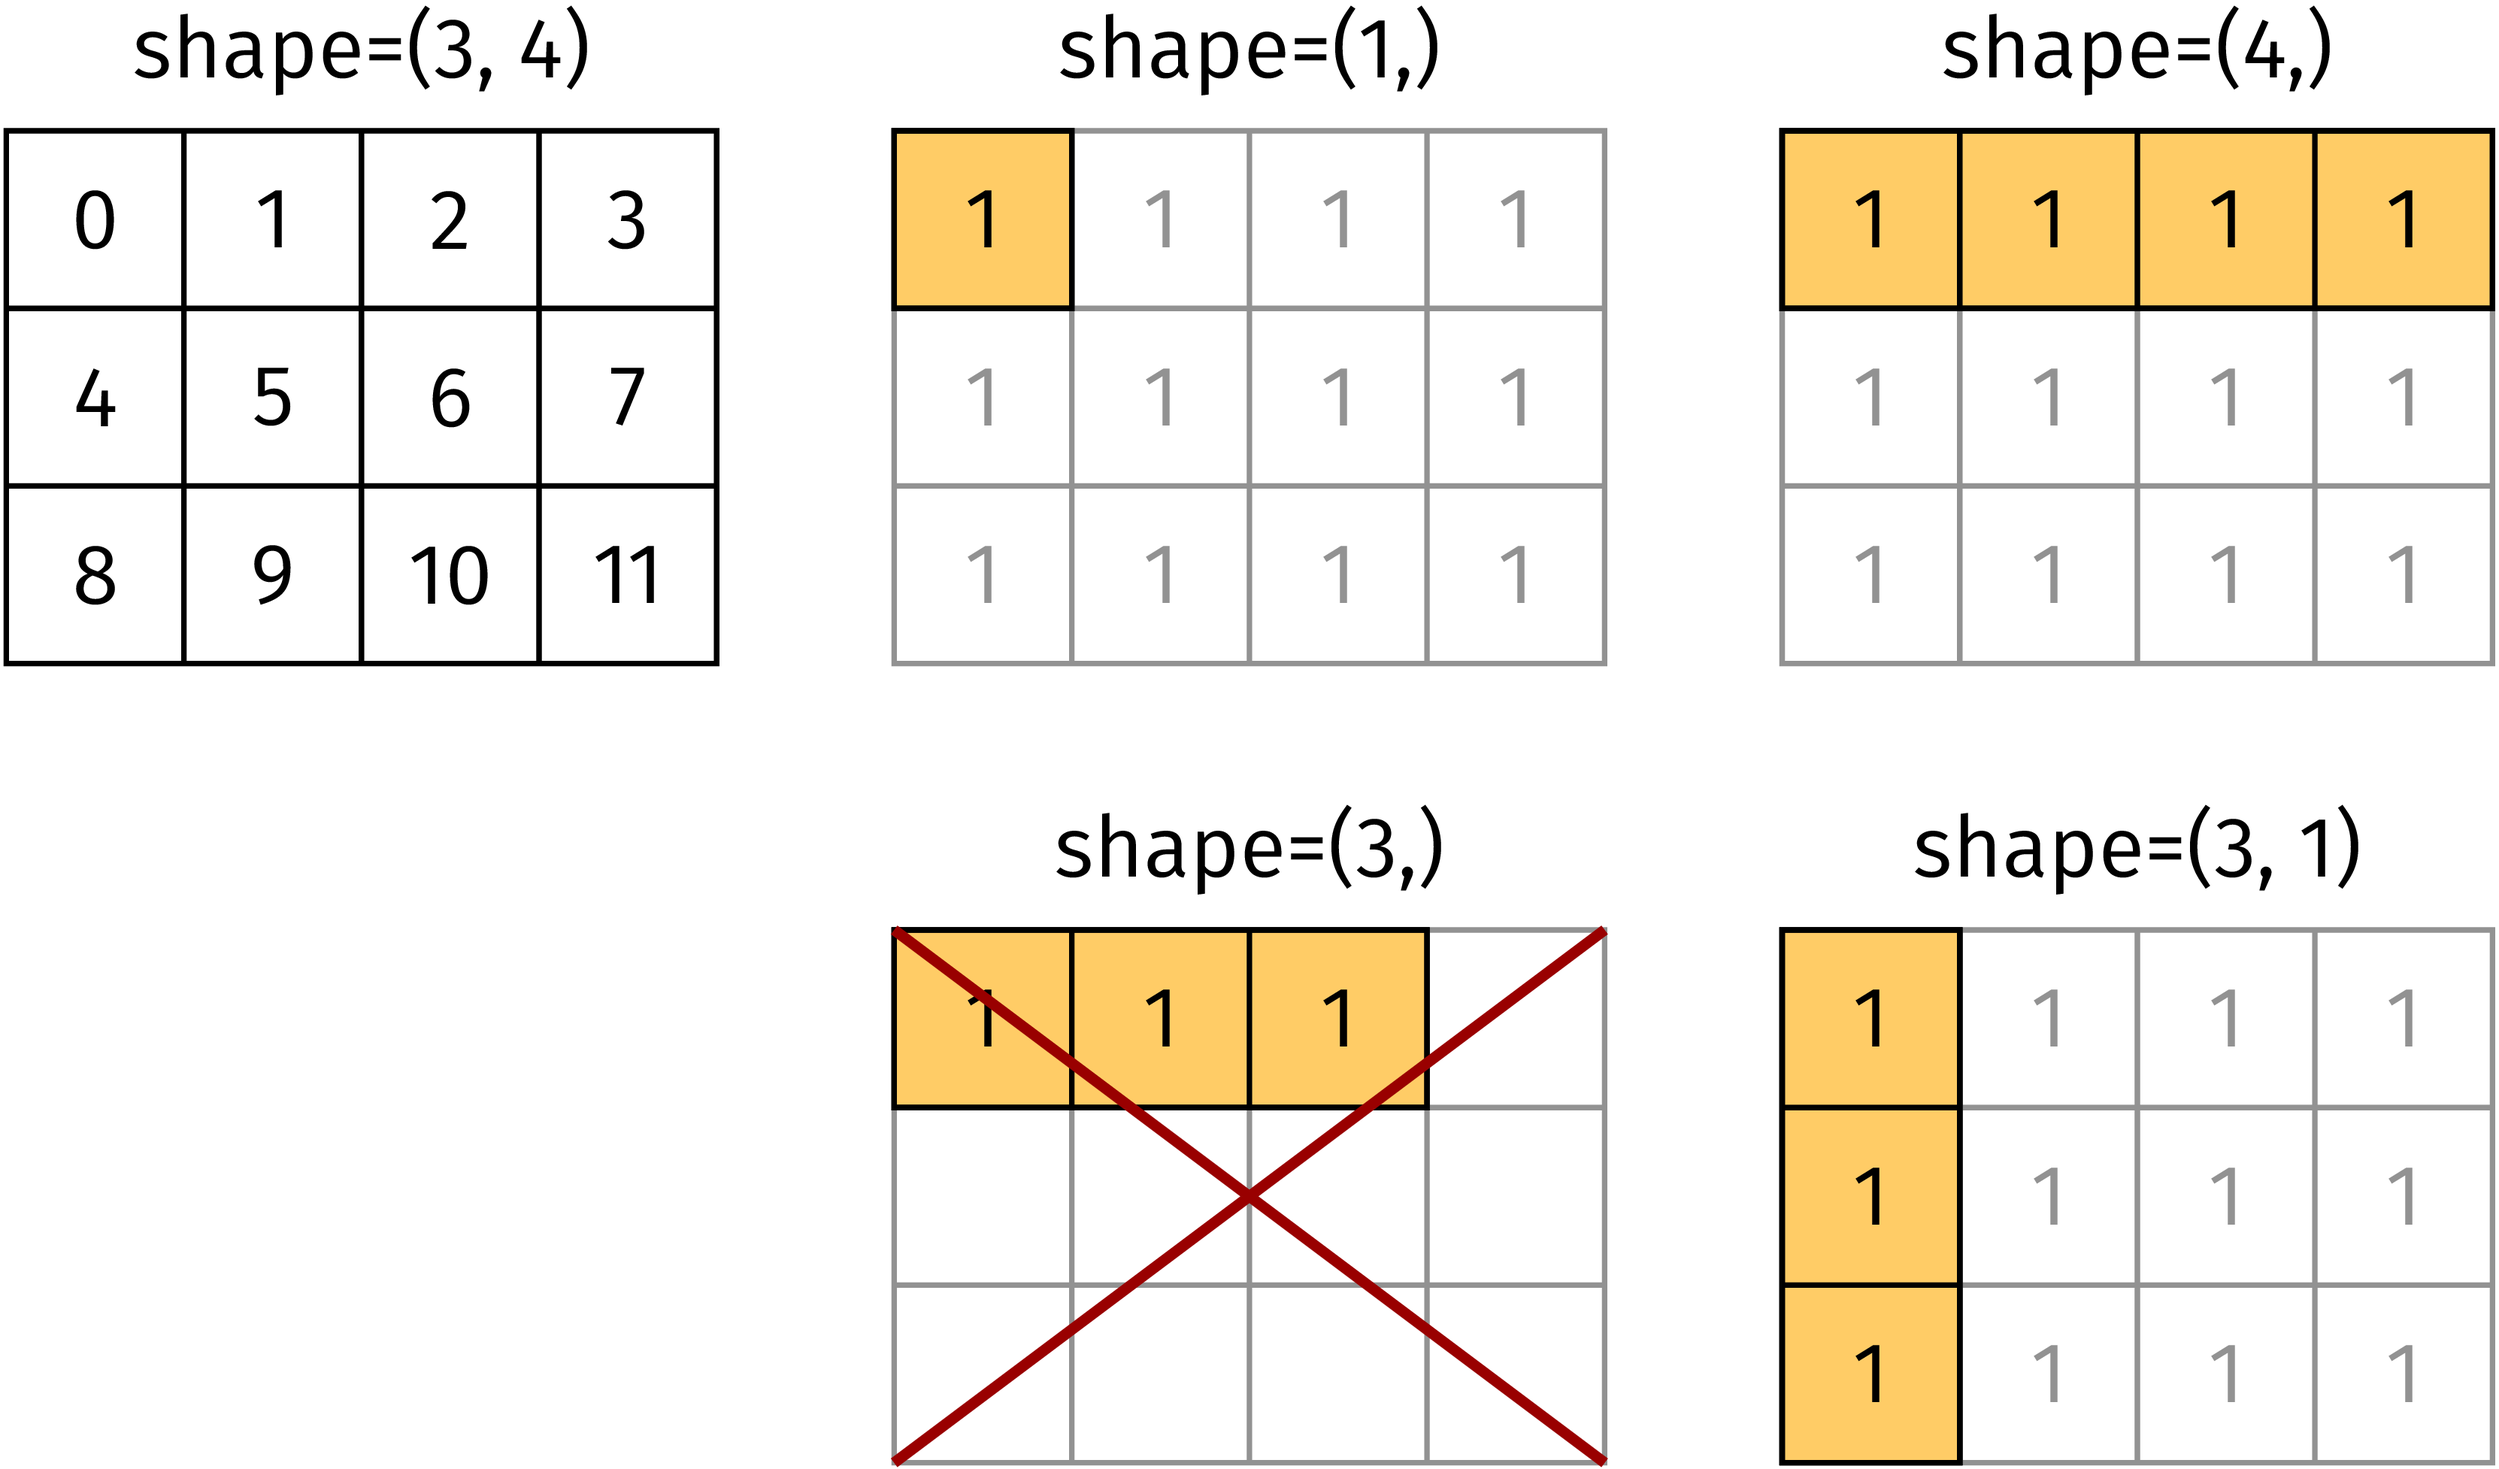
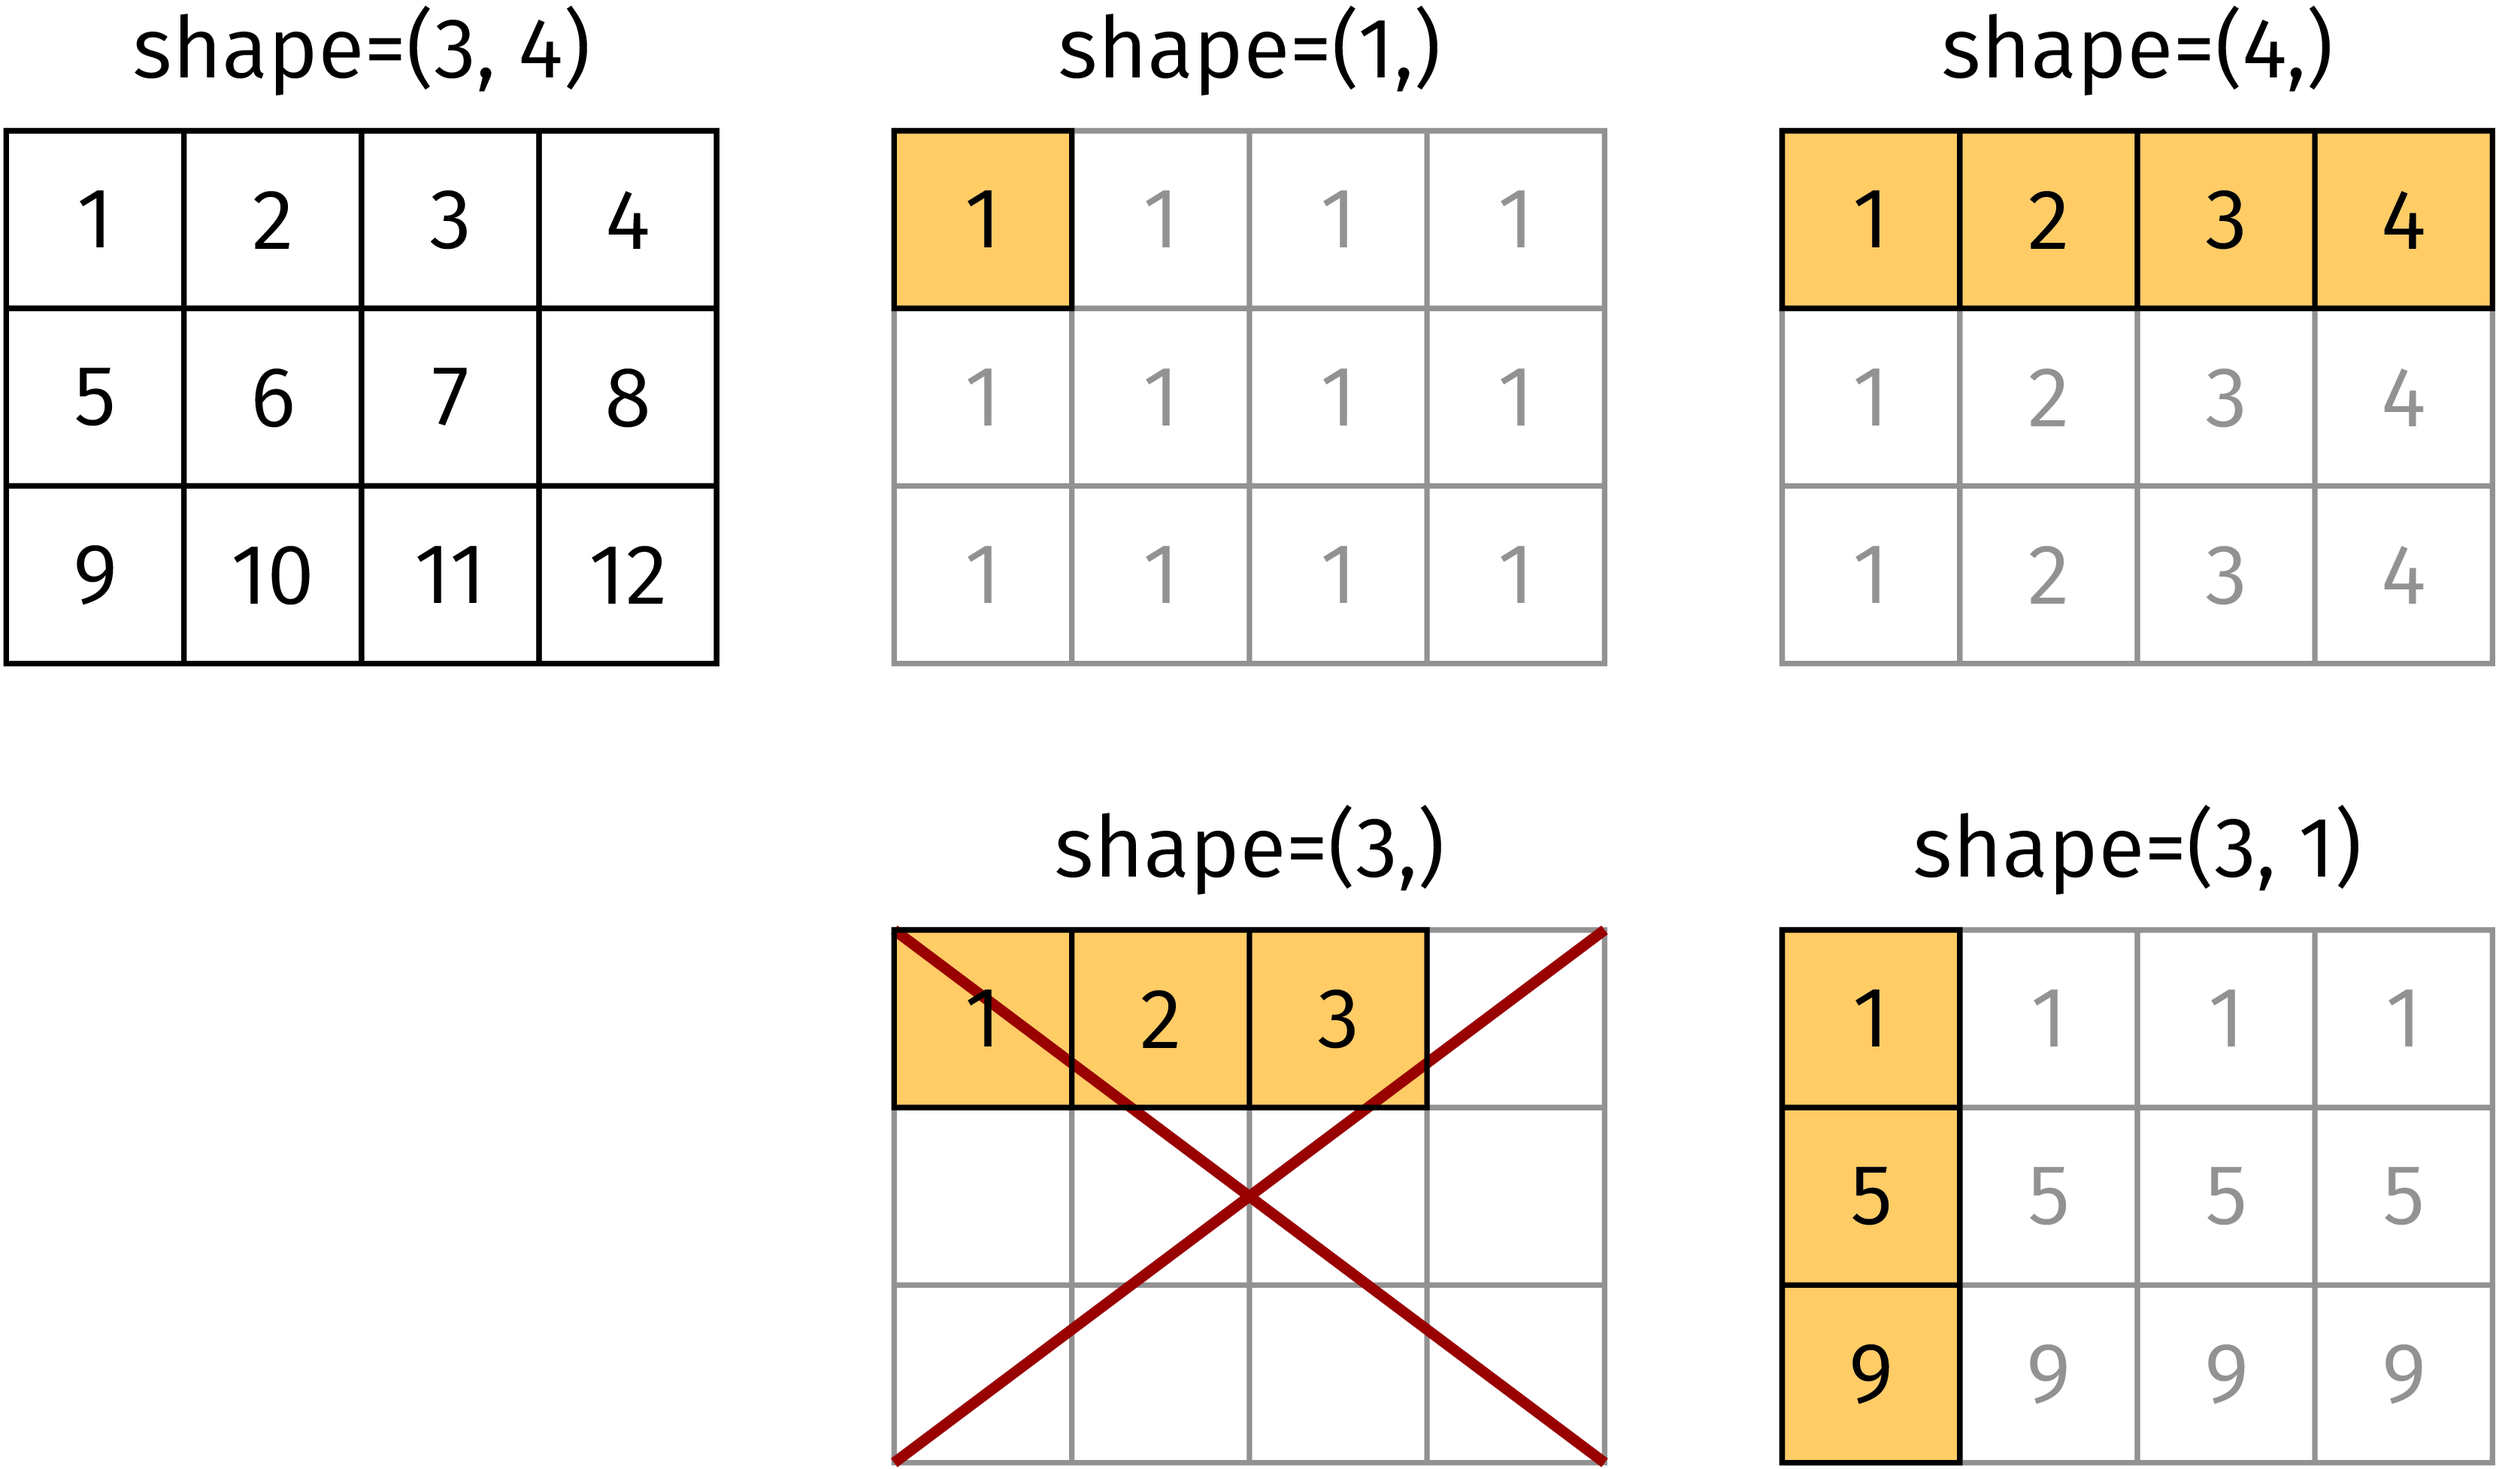
values of matrix elements in figure improved

diff --git a/manuscript/imgsrc/broadcast.py b/manuscript/imgsrc/broadcast.py
@@ -1,66 +1,62 @@
 from pyx import canvas, color, deco, path, text, style, trafo, unit
 
-def drawgrid(c, nxcells, nycells, yoff, gridcolor=color.grey(0), arange=None):
-    c.stroke(path.rect(0, yoff, nxcells, nycells), [gridcolor])
-    for nx in range(nxcells-1):
-        c.stroke(path.line(nx+1, yoff, nx+1, yoff+nycells), [gridcolor])
-    for ny in range(nycells-1):
-        c.stroke(path.line(0, yoff+ny+1, nxcells, yoff+ny+1), [gridcolor])
-    entry = '1'
-    if arange is not None:
-        for nx in range(nxcells):
-            for ny in range(nycells):
-                if arange:
-                    entry = str(4*ny+nx)
-                c.text(nx+0.5, 2.5-ny, entry,
-                       [text.halign.center, text.valign.middle, gridcolor])
-
-def array34(arange, hlshape=None):
+def array(shape):
+    baseshape = (3, 4)
+    bgcolor = color.grey(0.5)
     c = canvas.canvas()
-    if hlshape is None:
-        c.text(2, 3.3, 'shape=(3, 4)', [text.halign.center])
+    c.text(baseshape[1]/2, baseshape[0]+0.3, 'shape=%s' % repr(shape),
+           [text.halign.center])
+    if len(shape) == 1:
+        shape = (1, shape[0])
+    assert len(shape) == 2
+    c.stroke(path.rect(0, 0, baseshape[1], baseshape[0]), [bgcolor])
+    for nx in range(1, baseshape[1]):
+        c.stroke(path.line(nx, 0, nx, baseshape[0]), [bgcolor])
+    for ny in range(1, baseshape[0]):
+        c.stroke(path.line(0, ny, baseshape[1], ny), [bgcolor])
+    if not(shape == baseshape):
+        c.fill(path.rect(0, baseshape[0], shape[1], -shape[0]),
+               [color.rgb(1, 0.8, 0.4)])
+        if shape[0] in (1, baseshape[0]) and shape[1] in (1, baseshape[1]):
+            for nx in range(baseshape[1]):
+                for ny in range(baseshape[0]):
+                    c.text(nx+0.5, baseshape[0]-ny-0.5,
+                           str(baseshape[1]*min(ny, shape[0]-1)+min(nx, shape[1]-1)+1),
+                           [text.halign.center, text.valign.middle, bgcolor])
+        else:
+            alertcolor = color.rgb(0.6, 0, 0)
+            c.stroke(path.line(0, 0, baseshape[1], baseshape[0]),
+                     [alertcolor, style.linewidth.Thick])
+            c.stroke(path.line(0, baseshape[0], baseshape[1], 0),
+                     [alertcolor, style.linewidth.Thick])
     else:
-        c.text(2, 3.3, 'shape=%s' % repr(hlshape), [text.halign.center])
-    if hlshape is not None:
-        if len(hlshape) == 1:
-            hlshape = (1, hlshape[0])
-    if arange:
-        gridcolor = color.grey(0)
-    else:
-        gridcolor = color.grey(0.5)
-    if hlshape is None:
-        arange = True
-    elif (hlshape[0] in (1, 3)) and (hlshape[1] in (1, 4)):
-        arange = False
-    else:
-        arange = None
-    drawgrid(c, 4, 3, 0, gridcolor, arange=arange)
-    if hlshape is not None:
-        c.stroke(path.rect(0, 3, hlshape[1], -hlshape[0]),
-                 [deco.filled([color.rgb(1, 0.8, 0.4)])])
-        drawgrid(c, hlshape[1], hlshape[0], 3-hlshape[0], arange=False)
-    if arange is None:
-        alertcolor = color.rgb(0.6, 0, 0)
-        c.stroke(path.line(0, 0, 4, 3), [alertcolor, style.linewidth.Thick])
-        c.stroke(path.line(0, 3, 4, 0), [alertcolor, style.linewidth.Thick])
+        for nx in range(baseshape[1]):
+            for ny in range(baseshape[0]):
+                c.text(nx+0.5, baseshape[0]-ny-0.5, str(baseshape[1]*ny+nx+1),
+                       [text.halign.center, text.valign.middle])
+    c.stroke(path.rect(0, baseshape[0], shape[1], -shape[0]))
+    for nx in range(1, shape[1]):
+        c.stroke(path.line(nx, baseshape[0], nx, baseshape[0]-shape[0]))
+    for ny in range(1, shape[0]):
+        c.stroke(path.line(0, ny, shape[1], ny))
+    if not(shape == baseshape):
+        for nx in range(shape[1]):
+            for ny in range(shape[0]):
+                c.text(nx+0.5, baseshape[0]-ny-0.5, str(baseshape[1]*ny+nx+1),
+                       [text.halign.center, text.valign.middle])
     return c
-
 
 text.set(text.LatexRunner)
 text.preamble(r'\usepackage[sfdefault,scaled=.85,lining]{FiraSans}\usepackage{newtxsf}')
 unit.set(xscale=1.6, wscale=1.5)
 
-xcells = 4
-ycells = 3
-gridcolor = color.grey(0.5)
-
 c = canvas.canvas()
 
-c.insert(array34(True))
-c.insert(array34(False, (1,)), [trafo.translate(5, 0)])
-c.insert(array34(False, (4,)), [trafo.translate(10, 0)])
-c.insert(array34(False, (3,)), [trafo.translate(5, -4.5)])
-c.insert(array34(False, (3, 1)), [trafo.translate(10, -4.5)])
+c.insert(array((3, 4)))
+c.insert(array((1,)), [trafo.translate(5, 0)])
+c.insert(array((4,)), [trafo.translate(10, 0)])
+c.insert(array((3,)), [trafo.translate(5, -4.5)])
+c.insert(array((3, 1)), [trafo.translate(10, -4.5)])
 
 c.writePDFfile()
 c.writeGSfile(device="png16m", resolution=600)
